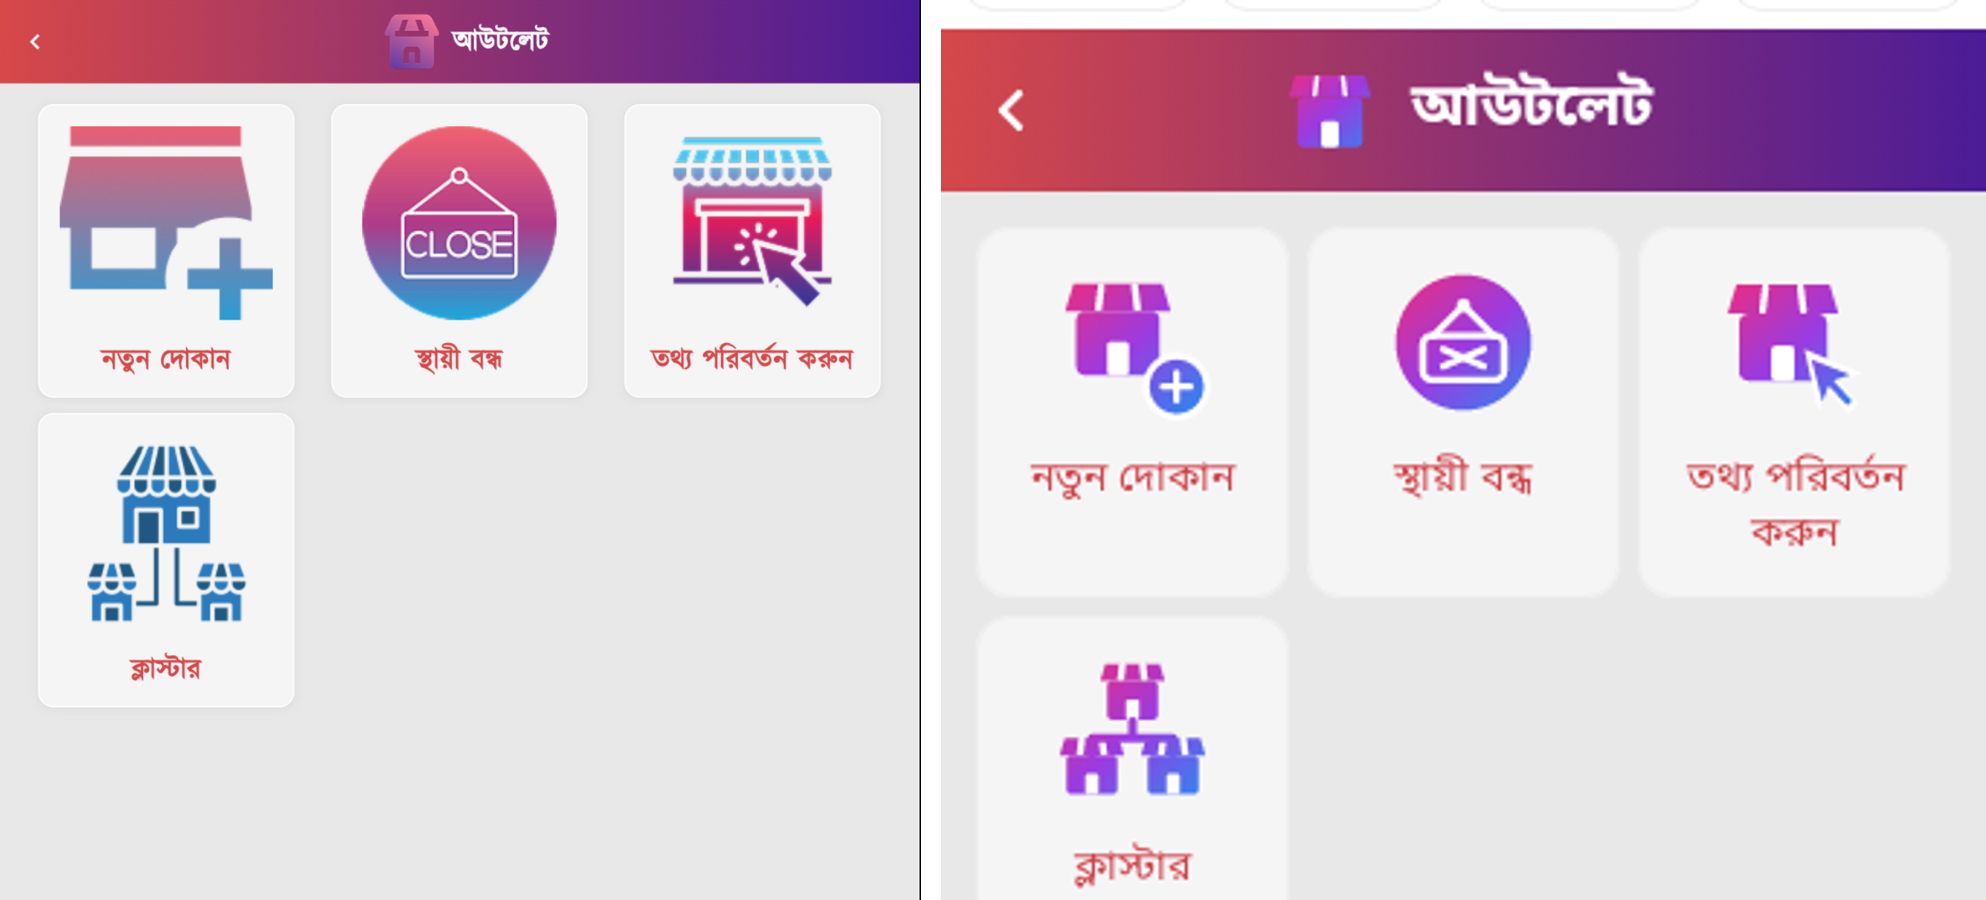
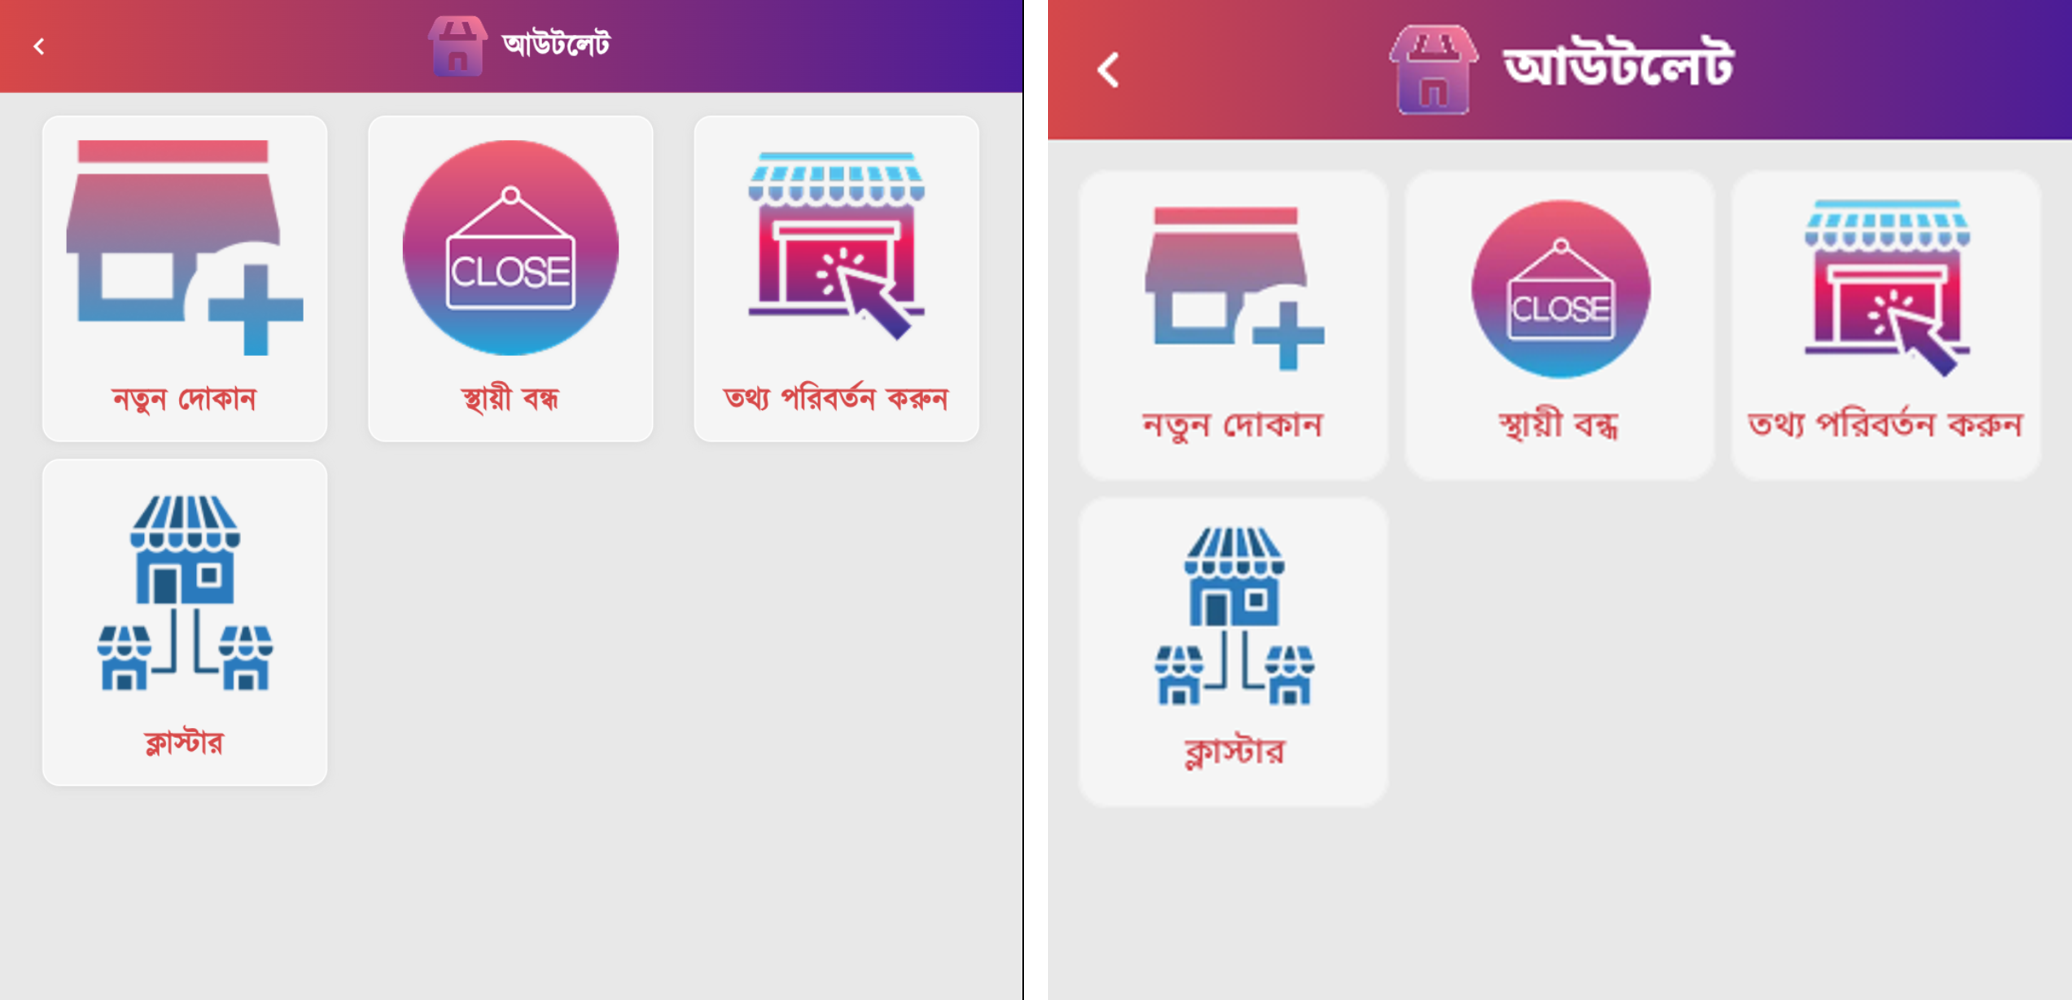
ui-kit: parity mock-ups of six reference screens built from the kit, side-by-side evidence, type sizes
KitParityShot rebuilds home, stock, sale select, summary, sales submit and the outlet menu from the
kit with the screenshots' own data at 411 dp (the reference phone) for docs/evidence/ui-parity/kit-*.png.
Measured against them: info card 15 sp, summary totals 20 sp, home header 15/11 sp.

Claude-Session: https://claude.ai/code/session_01VBLkPE4hpaTd6ELz8HPAez

diff --git a/android/ui-screenshots/src/test/kotlin/com/aktcl/aron/uiscreenshots/KitParityShot.kt b/android/ui-screenshots/src/test/kotlin/com/aktcl/aron/uiscreenshots/KitParityShot.kt
@@ -1,0 +1,184 @@
+package com.aktcl.aron.uiscreenshots
+
+import android.content.Context
+import androidx.compose.foundation.background
+import androidx.compose.foundation.layout.Arrangement
+import androidx.compose.foundation.layout.Box
+import androidx.compose.foundation.layout.Column
+import androidx.compose.foundation.layout.Spacer
+import androidx.compose.foundation.layout.fillMaxSize
+import androidx.compose.foundation.layout.fillMaxWidth
+import androidx.compose.foundation.layout.height
+import androidx.compose.foundation.layout.padding
+import androidx.compose.foundation.rememberScrollState
+import androidx.compose.foundation.verticalScroll
+import androidx.compose.runtime.Composable
+import androidx.compose.runtime.CompositionLocalProvider
+import androidx.compose.ui.Modifier
+import androidx.compose.ui.platform.LocalContext
+import androidx.compose.ui.res.painterResource
+import androidx.compose.ui.test.junit4.createComposeRule
+import androidx.compose.ui.test.onRoot
+import androidx.compose.ui.unit.dp
+import androidx.test.core.app.ApplicationProvider
+import com.aktcl.aron.core.common.AppLanguage
+import com.aktcl.aron.core.ui.AppLocale
+import com.aktcl.aron.core.ui.AronTheme
+import com.aktcl.aron.core.ui.LocalAronLook
+import com.aktcl.aron.core.ui.R
+import com.aktcl.aron.core.ui.aron.AronDataTable
+import com.aktcl.aron.core.ui.aron.AronHomeHeader
+import com.aktcl.aron.core.ui.aron.AronInfoCard
+import com.aktcl.aron.core.ui.aron.AronNoticeCard
+import com.aktcl.aron.core.ui.aron.AronPrimaryButton
+import com.aktcl.aron.core.ui.aron.AronPrinterBadge
+import com.aktcl.aron.core.ui.aron.AronScaffold
+import com.aktcl.aron.core.ui.aron.AronSecondaryButton
+import com.aktcl.aron.core.ui.aron.AronStatusDot
+import com.aktcl.aron.core.ui.aron.AronTargetCard
+import com.aktcl.aron.core.ui.aron.AronTile
+import com.aktcl.aron.core.ui.aron.AronTileGrid
+import com.aktcl.aron.core.ui.aron.AronTopBar
+import com.aktcl.aron.core.ui.aron.ButtonGlyph
+import com.aktcl.aron.core.ui.aron.LetterFilterBar
+import com.aktcl.aron.core.ui.aron.PackCard
+import com.aktcl.aron.core.ui.aron.PackListHeader
+import com.aktcl.aron.core.ui.aron.RetailerPickerField
+import com.aktcl.aron.core.ui.aron.SummaryRow
+import com.aktcl.aron.core.ui.aron.SummaryTable
+import com.aktcl.aron.core.ui.aron.SummaryTotal
+import com.aktcl.aron.core.ui.aron.TotalsLine
+import com.aktcl.aron.core.ui.aron.TotalsPanel
+import com.github.takahirom.roborazzi.RoborazziOptions
+import com.github.takahirom.roborazzi.RoborazziTaskType
+import com.github.takahirom.roborazzi.captureRoboImage
+import org.junit.Rule
+import org.junit.Test
+import org.junit.runner.RunWith
+import org.robolectric.RobolectricTestRunner
+import org.robolectric.annotation.Config
+import org.robolectric.annotation.GraphicsMode
+import java.io.File
+
+/**
+ * Parity mock-ups: each reference screen of docs/ui-reference/sr/ rebuilt from the parity kit only, with the reference's own
+ * sample data, at 411 dp (the reference phone: 1146 px at about 2.8x) in Bangla. Look-and-compare captures for docs/evidence/ui-parity/kit-*.png (not goldens, never verified);
+ * the screens themselves belong to the feature lanes. Run: `--tests '*KitParityShot*'`, PNGs in `build/kitshots/parity_*.png`.
+ */
+@RunWith(RobolectricTestRunner::class)
+@GraphicsMode(GraphicsMode.Mode.NATIVE)
+@Config(sdk = [34], qualifiers = "bn-w360dp-h640dp")
+class KitParityShot {
+    @get:Rule val rule = createComposeRule()
+
+    private val dir: File = File(System.getProperty("aron.kitshot.dir") ?: "build/kitshots").also { it.mkdirs() }
+    private val options = RoborazziOptions(taskType = RoborazziTaskType.Record)
+
+    private fun shot(name: String, content: @Composable () -> Unit) {
+        val ctx = AppLocale.wrap(ApplicationProvider.getApplicationContext<Context>(), AppLanguage.BN)
+        rule.setContent { CompositionLocalProvider(LocalContext provides ctx) { AronTheme(AppLanguage.BN) { content() } } }
+        rule.waitForIdle()
+        rule.onRoot().captureRoboImage(File(dir, "parity_$name.png").path, roborazziOptions = options)
+    }
+
+    @Test @Config(qualifiers = "bn-w411dp-h733dp") fun home() = shot("home") {
+        val tiles = listOf(
+            "অ্যাটেনডেন্স" to R.drawable.aron_art_attendance, "স্টক" to R.drawable.aron_art_stock, "বিক্রয়" to R.drawable.aron_art_sale, "মেমো" to R.drawable.aron_art_memo,
+            "সারসংক্ষেপ" to R.drawable.aron_art_summary, "বিক্রয় জমা" to R.drawable.aron_art_sales_submit, "আউটলেট" to R.drawable.aron_art_outlet, "টিউটোরিয়াল" to R.drawable.aron_art_tutorial,
+            "টাস্ক ডেলিগেশন" to R.drawable.aron_art_task_delegation, "Photo Capture" to R.drawable.aron_art_photo_capture, "বিক্রয় যাত্রা" to R.drawable.aron_art_sales_journey, "কেপিআই" to R.drawable.aron_art_kpi,
+        )
+        Column(Modifier.fillMaxSize().background(LocalAronLook.current.pageHome)) {
+            AronHomeHeader("SR - Testing Banani (sr334001)", "Apsis RouteDaily, ২০২৬-১০-০৫", onSettings = {}, settingsLabel = "সেটিংস")
+            AronTileGrid(tiles, Modifier.padding(6.dp)) { (label, icon), m -> AronTile(label, painterResource(icon), onClick = {}, modifier = m) }
+            AronTargetCard("টার্গেট ও অ্যাচিভমেন্ট", "আজকের বিক্রয়", Modifier.padding(6.dp), value = "৪,৩৯১.০০৳")
+        }
+    }
+
+    @Test @Config(qualifiers = "bn-w411dp-h717dp") fun stock() = shot("stock") {
+        val packs = listOf("MaxR-10S", "MaxR-20S", "MaxB-10S", "MaxB-20S", "MaxWB-10S")
+        AronScaffold(
+            topBar = {
+                AronTopBar("স্টক", icon = painterResource(R.drawable.aron_art_stock), onBack = {}, backLabel = "পেছনে",
+                    hanging = { AronPrinterBadge(connected = false, label = "প্রিন্টার সংযুক্ত নয়", onClick = {}) })
+            },
+            bottomPanel = {
+                TotalsPanel(
+                    TotalsLine("ক্যাটাগরি", listOf("মোট ইস্যু", "স্টক")),
+                    listOf(TotalsLine("সিগারেট", listOf("০", "০")), TotalsLine("বিড়ি", listOf("০", "০")), TotalsLine("লাইটার", listOf("৪০০", "২৫")), TotalsLine("ম্যাচ", listOf("৪০০", "৩৯৪"))),
+                )
+            },
+            bottomButtons = {
+                AronPrimaryButton("সংরক্ষণ", {}, Modifier.weight(1f), glyph = ButtonGlyph.Save)
+                AronSecondaryButton("প্রিন্ট", {}, Modifier.weight(1f), enabled = false, glyph = ButtonGlyph.Print)
+            },
+        ) {
+            Column(Modifier.verticalScroll(rememberScrollState())) {
+                Spacer(Modifier.height(16.dp))
+                PackListHeader("এসকেইউ", "ইস্যু", "স্টক")
+                Column(Modifier.padding(horizontal = 10.dp), verticalArrangement = Arrangement.spacedBy(6.dp)) {
+                    packs.forEach { PackCard(it, it, "০", {}, {}, {}, "০", "কমান", "বাড়ান", "পরিমাণ", packBadge = "০") }
+                }
+            }
+        }
+    }
+
+    @Test @Config(qualifiers = "bn-w411dp-h272dp") fun sale_select() = shot("sale_select") {
+        Column(Modifier.fillMaxSize().background(LocalAronLook.current.page)) {
+            AronTopBar("বিক্রয়", icon = painterResource(R.drawable.aron_art_sale), onBack = {}, backLabel = "পেছনে")
+            Column(Modifier.padding(8.dp), verticalArrangement = Arrangement.spacedBy(12.dp)) {
+                RetailerPickerField(null, "রিটেইলার নির্বাচন করুন", onClick = {})
+                LetterFilterBar(listOf("All", "A", "B", "E", "J", "M", "N", "R", "S", "T", "a", "b", "c", "j", "k", "o", "s", "t"), "All", {})
+            }
+        }
+    }
+
+    @Test @Config(qualifiers = "bn-w411dp-h649dp") fun summary() = shot("summary") {
+        Column(Modifier.fillMaxSize().background(LocalAronLook.current.page)) {
+            AronTopBar("বিক্রয় সারসংক্ষেপ", icon = painterResource(R.drawable.aron_art_summary), onBack = {}, backLabel = "পেছনে")
+            Column(Modifier.padding(8.dp), verticalArrangement = Arrangement.spacedBy(10.dp)) {
+                AronInfoCard("আপনার পুরো দিনের বিক্রয় বিবরণ এখানে থাকবে", trailing = { AronPrinterBadge(false, "প্রিন্টার সংযুক্ত নয়", {}) })
+                SummaryTable(
+                    listOf("মেমো", "পরিমাণ", "মূল্য", "ডিসকাউন্ট", "ডিসকাউন্ট মূল্য", "ফেরত"),
+                    listOf(
+                        SummaryRow("Aster", listOf("৪", "৩৭৫", "৪,৬৮৭.৫০৳", "৪৩৭.৫০", "৪,২৫০.০০৳", "২৫")),
+                        SummaryRow("FB", listOf("১", "৩", "৮৪.০০৳", "০.০০", "৮৪.০০৳", "১৯৭")),
+                        SummaryRow("SL", listOf("১", "৩", "৫৭.০০৳", "০.০০", "৫৭.০০৳", "১৯৭")),
+                    ),
+                    subtotals = listOf(TotalsLine("লাইটার", listOf("৩৭৫", "৪,৬৮৭.৫০৳", "৪৩৭.৫", "৪,২৫০.০০৳", "২৫")), TotalsLine("ম্যাচ", listOf("৬", "১৪১.০০৳", "০.০", "১৪১.০০৳", "৩৯৪"))),
+                    totals = listOf(SummaryTotal("ডিসকাউন্ট এবং অন্যান্য (-)", "-৪৩৭.৫০"), SummaryTotal("সর্বমোট", "৪,৩৯১.০০")),
+                )
+                AronPrimaryButton("প্রিন্ট", {}, Modifier.fillMaxWidth(), glyph = ButtonGlyph.Print, reverse = true)
+            }
+        }
+    }
+
+    @Test @Config(qualifiers = "bn-w411dp-h481dp") fun sales_submit() = shot("sales_submit") {
+        Column(Modifier.fillMaxSize().background(LocalAronLook.current.page)) {
+            AronTopBar("বিক্রয় জমা", icon = painterResource(R.drawable.aron_art_sales_submit), onBack = {}, backLabel = "পেছনে")
+            Column(Modifier.padding(12.dp), verticalArrangement = Arrangement.spacedBy(12.dp)) {
+                AronStatusDot("ডিভাইস স্ট্যাটাস", "অনলাইন", online = true)
+                AronDataTable(
+                    listOf("বিষয়", "ডিভাইস", "সার্ভার"),
+                    listOf(listOf("আউটলেট", "৬", "০"), listOf("বিক্রয়", "৩৮১", "০"), listOf("স্টক", "৮০০", "০"), listOf("কিউসি", "০", "০"), listOf("প্রমোশন", "০", "০")),
+                )
+                AronNoticeCard("আজকের কাজ শেষ করার আগে, অবশ্যই সব অপারেশন ডাটা সিঙ্ক করুন এবং এই অপশন থেকে বিক্রয় জমা সাবমিট করুন।")
+                AronPrimaryButton("ডাটা সিঙ্ক করুন", {}, Modifier.fillMaxWidth(), glyph = ButtonGlyph.Sync)
+                AronPrimaryButton("বিক্রয় জমা", {}, Modifier.fillMaxWidth(), enabled = false, glyph = ButtonGlyph.Submit)
+            }
+        }
+    }
+
+    @Test @Config(qualifiers = "bn-w411dp-h401dp") fun outlet_menu() = shot("outlet_menu") {
+        val look = LocalAronLook.current
+        val items = listOf(
+            "নতুন দোকান" to R.drawable.aron_art_outlet_new, "স্থায়ী বন্ধ" to R.drawable.aron_art_outlet_close,
+            "তথ্য পরিবর্তন করুন" to R.drawable.aron_art_outlet_edit, "ক্লাস্টার" to R.drawable.aron_art_cluster,
+        )
+        Column(Modifier.fillMaxSize().background(look.page)) {
+            AronTopBar("আউটলেট", icon = painterResource(R.drawable.aron_art_outlet), onBack = {}, backLabel = "পেছনে")
+            Box(Modifier.padding(12.dp)) {
+                AronTileGrid(items, columns = 3) { (label, icon), m -> AronTile(label, painterResource(icon), {}, m, menu = true, labelColor = look.tileLabelOutlet) }
+            }
+        }
+    }
+}

diff --git a/android/core-ui/src/main/kotlin/com/aktcl/aron/core/ui/aron/Chrome.kt b/android/core-ui/src/main/kotlin/com/aktcl/aron/core/ui/aron/Chrome.kt
@@ -196,7 +196,7 @@ fun AronScaffold(
 
 /**
  * The Home header (PARITY-SPEC s2.3, sr/home-1-tiles.webp): the gradient, a white round avatar with the person glyph (or [avatar]),
- * [title] = "Role - Name (login)" in white bold 16 sp, [subtitle] = route and date in 12 sp, and the white settings gear at the end
+ * [title] = "Role - Name (login)" in white bold 15 sp, [subtitle] = route and date in 11 sp (measured on the reference), and the white settings gear at the end
  * ([settingsLabel] is its TalkBack label).
  */
 @Composable
@@ -223,8 +223,8 @@ fun AronHomeHeader(
             else GlyphCanvas(Modifier.size(40.dp)) { person(look.purple) }
         }
         Column(Modifier.weight(1f).padding(horizontal = 12.dp)) {
-            Text(title, style = lookStyle(16.sp, bold = true, color = look.onBar))
-            Text(subtitle, style = lookStyle(12.sp, color = look.onBar))
+            Text(title, style = lookStyle(15.sp, bold = true, color = look.onBar))
+            Text(subtitle, style = lookStyle(11.sp, color = look.onBar))
         }
         Box(
             Modifier.size(AronLook.Touch).clickable(role = Role.Button, onClick = onSettings).semantics { contentDescription = settingsLabel },
@@ -344,7 +344,7 @@ fun AronInfoCard(text: String, modifier: Modifier = Modifier, trailing: (@Compos
         Box(Modifier.size(24.dp).clip(CircleShape).background(look.inkMuted), contentAlignment = Alignment.Center) {
             GlyphCanvas(Modifier.size(24.dp)) { info(Color.White) }
         }
-        Text(text, style = lookStyle(17.sp, color = look.ink), modifier = Modifier.weight(1f).padding(horizontal = 12.dp))
+        Text(text, style = lookStyle(15.sp, color = look.ink), modifier = Modifier.weight(1f).padding(horizontal = 12.dp))
         trailing?.invoke()
     }
 }

diff --git a/android/core-ui/src/main/kotlin/com/aktcl/aron/core/ui/aron/Tables.kt b/android/core-ui/src/main/kotlin/com/aktcl/aron/core/ui/aron/Tables.kt
@@ -187,7 +187,7 @@ private fun CenteredWrap(modifier: Modifier, content: @Composable () -> Unit) {
 @Immutable
 data class SummaryRow(val title: String, val values: List<String>)
 
-/** A line of the totals block under a [SummaryTable] (`সর্বমোট`, `ডিসকাউন্ট এবং অন্যান্য (-)`): purple bold 22 sp, value at the end. */
+/** A line of the totals block under a [SummaryTable] (`সর্বমোট`, `ডিসকাউন্ট এবং অন্যান্য (-)`): purple bold 20 sp, value at the end. */
 @Immutable
 data class SummaryTotal(val label: String, val value: String)
 
@@ -268,8 +268,8 @@ fun SummaryTable(
             Column(Modifier.fillMaxWidth().background(look.rowAlt).padding(horizontal = 12.dp, vertical = 8.dp)) {
                 totals.forEach { t ->
                     Row(Modifier.fillMaxWidth().padding(vertical = 8.dp), verticalAlignment = Alignment.CenterVertically) {
-                        Text(t.label, style = lookStyle(22.sp, bold = true, color = look.purple), modifier = Modifier.weight(1f))
-                        Text(t.value, style = lookStyle(22.sp, bold = true, color = look.purple, align = TextAlign.End), modifier = Modifier.padding(start = 12.dp))
+                        Text(t.label, style = lookStyle(20.sp, bold = true, color = look.purple), modifier = Modifier.weight(1f))
+                        Text(t.value, style = lookStyle(20.sp, bold = true, color = look.purple, align = TextAlign.End), modifier = Modifier.padding(start = 12.dp))
                     }
                 }
             }

diff --git a/docs/status/ui-parity-ui-kit.md b/docs/status/ui-parity-ui-kit.md
@@ -1,7 +1,8 @@
 # UI parity: lane ui-kit (android/core-ui)
 
 Reference: docs/ui-reference/PARITY-SPEC.md s1 and s2, images in docs/ui-reference/sr/. Kit API: top of docs/status/android-core-ui.md.
-Evidence: all icons on one sheet docs/evidence/ui-parity/kit-icons-sheet.png. Side by side (left reference, right ours): docs/evidence/ui-parity/kit-home-tiles.png, kit-outlet-menu.png, kit-stock-packcard-totals.png, kit-retailer-letters.png, kit-summary-table.png; whole gallery kit-gallery-bn.png and -sunlight.
+Evidence (left: the owner's screenshot; right: the same screen built only from the kit with the screenshot's data, 411 dp Bangla, `KitParityShot`): docs/evidence/ui-parity/kit-home.png, kit-stock.png, kit-sale-select.png, kit-summary.png, kit-sales-submit.png, kit-outlet-menu.png. All icons: kit-icons-sheet.png. Whole gallery at 360 dp: kit-gallery-bn.png (and -sunlight).
+What still differs (kit level): packshots show the grey silhouette until ui-packshots provides images; the Home target card shows the day's sales and no target bar (targets deferred, docs/27); Astha and Loyalty tiles are absent (deferred); our Bangla is Noto Sans Bengali, the reference uses a different Bangla face (slightly narrower), so line breaks can differ.
 
 | Component | Reference | Status | sha |
 |---|---|---|---|
